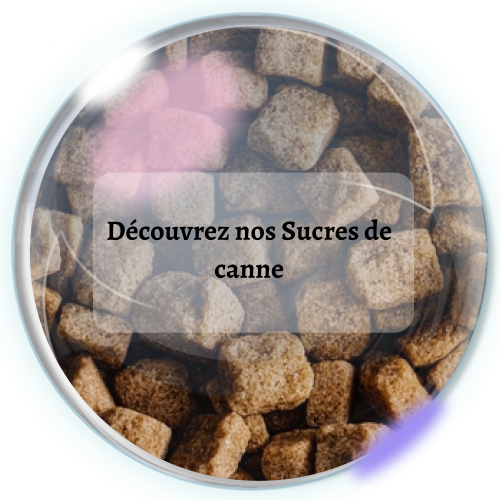
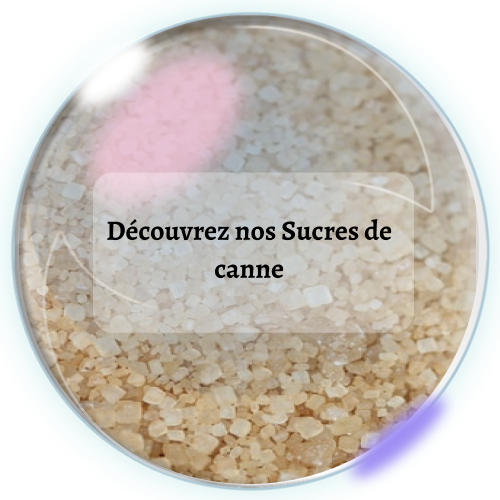
Page 1 Terminée

diff --git a/style.css b/style.css
@@ -7,18 +7,19 @@
 }
 
 body {
-  background-image: url(img/water.jpg);
+  background: url(img/water.jpg) fixed;
 }
 
 /* HEADER */
 .header {
-  padding: 30px 0 40px 20px;
-  height: 10vh;
+  padding: 20px 0 40px 20px;
+  height: 7vh;
   width: 100%;
   display: flex;
   justify-content: space-between;
-  background-color: rgb(27, 27, 27, 0.4);
+  background-color: rgb(27, 27, 27, 0.6);
   position: fixed;
+  z-index: 10;
 }
 
 img {
@@ -37,11 +38,13 @@ img {
 .compte {
   height: 100px;
   width: 100px;
+  margin-top: -3%;
 }
 
 .panier {
   height: 100px;
   width: 100px;
+  margin-top: -3%;
 }
 
 /* SECTION 1 */
@@ -134,12 +137,51 @@ section {
 
 .divRight3 {
   width: 48%;
+  position: relative;
+  display: flex;
 }
 
 .imgS3 {
-  position: relative;
   height: 800px;
   width: 800px;
   margin-top: 15vh;
   margin-left: -5vw;
+  z-index: 1;
 }
+
+.divBubbleR {
+  height: 820px;
+  width: 820px;
+  position: relative;
+}
+.divProduitS3 {
+  display: flex;
+  flex-direction: column;
+  position: absolute;
+  top: 56px;
+  width: 700px;
+  height: 700px;
+  z-index: 2;
+  font-size: 100%;
+  text-align: center;
+  top: 30%;
+  left: 5%;
+}
+
+.ajoutPanier {
+  height: 100px;
+  width: 100px;
+}
+
+.RhumAmbre,
+.RhumAgricole {
+  display: flex;
+  width: 80%;
+  align-items: center;
+  padding: 3%;
+}
+/* 
+.pProduits {
+  padding: 0 10px 0 10px;
+  width: 100px;
+} */

diff --git a/index.php b/index.php
@@ -71,17 +71,38 @@
         </div>
 
         <div class="divRight3">
-            <div class="divBubbleRS3">
+            <div class="divBubbleR">
                 <img class="imgS3" src="img/Buuuble.png">
-            </div>
-            <div class="divProduitS3">
-                <div>
-                    <p> Nos Rhums </p>
-                </div>
-                <div>
-                    <img>
-                    <p>Lorem ipsum, dolor sit amet consectetur adipisicing elit. Quae atque in sapiente vel sunt repellendus exercitationem esse, repudiandae tempora inventore reiciendis ullam quisquam et recusandae fugiat, incidunt sequi pariatur assumenda.</p>
-                    <div>Panier</div>
+                <div class="divProduitS3">
+                    <div class="RhumAmbre">
+                        <div>
+                            <img src="img/RhumAmbre.png">
+                        </div>
+                        <div>
+                            <p class="pProduits">
+                            <h2>RHUM AMBRE </h2>Lorem ipsum dolor sit amet. <b>PRIX : 22€</b></p>
+
+                        </div>
+                        <div>
+                            <img class="ajoutPanier" src="img/AjoutPanier.png" alt="">
+                        </div>
+                    </div>
+
+                    <div class="RhumAgricole">
+                        <div>
+                            <img src="img/RhumAgr.png">
+                        </div>
+                        <div>
+                            <p class="pProduits">
+                            <h2>RHUM AGRICOLE </h2>Lorem ipsum dolor sit amet. <b>PRIX : 90€</b></p>
+
+                        </div>
+                        <div>
+                            <img class="ajoutPanier" src="img/AjoutPanier.png" alt="">
+                        </div>
+                    </div>
+
+
                 </div>
             </div>
         </div>
@@ -91,15 +112,54 @@
 
     <!-- SECTION 4 -->
 
-    <div class="divLeft">
+    <section class="section3">
+        <div class="divLeft3">
 
-        <div>
-            <img class="imgS2" src="img/BubbleSug (1).png">
-            <div></div>
+            <div>
+                <img class="imgS2" src="img/BubbleSug (1).png">
+                <div></div>
+            </div>
         </div>
-    </div>
+
+        <div class="divRight3">
+            <div class="divBubbleR">
+                <img class="imgS3" src="img/Buuuble.png">
+                <div class="divProduitS3">
+                    <div class="RhumAmbre">
+                        <div>
+                            <img src="img/Sucredecanne.png">
+                        </div>
+                        <div>
+                            <p class="pProduits">
+                            <h2>SUCRE DE CANNE </h2>Lorem ipsum dolor sit amet. <b>PRIX : 20€</b></p>
+
+                        </div>
+                        <div>
+                            <img class="ajoutPanier" src="img/AjoutPanier.png" alt="">
+                        </div>
+                    </div>
+
+                    <div class="RhumAgricole">
+                        <div>
+                            <img src="img/Sucredecanneliquide.png">
+                        </div>
+                        <div>
+                            <p class="pProduits">
+                            <h2>SUCRE DE CANNE LIQUIDE </h2>Lorem ipsum dolor sit amet. <b>PRIX : 50€</b></p>
+
+                        </div>
+                        <div>
+                            <img class="ajoutPanier" src="img/AjoutPanier.png" alt="">
+                        </div>
+                    </div>
 
 
+                </div>
+            </div>
+        </div>
+        </div>
+
+    </section>
 
 </body>
 
